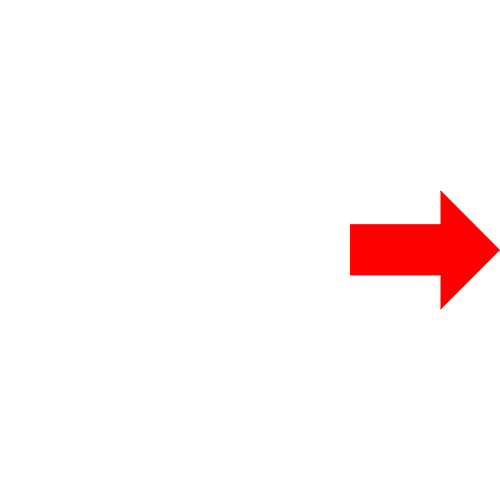
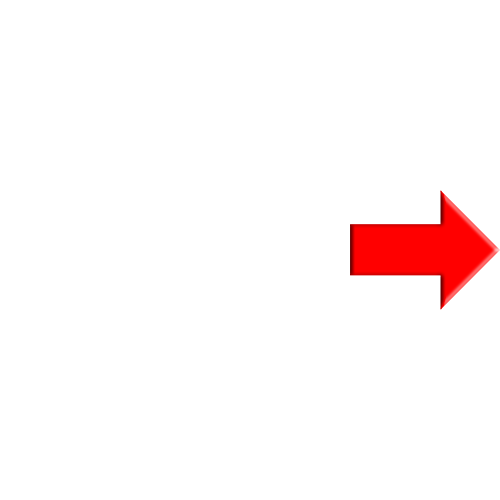
Improvement of the arrow. Add a star highlight image, an image for the pointer.

Changed region(s): [[0.69, 0.45, 0.93, 0.63], [0.87, 0.39, 1.0, 0.54], [0.93, 0.54, 0.96, 0.57]]

diff --git a/projetp1/src/com/github/projetp1/SkyMap.java b/projetp1/src/com/github/projetp1/SkyMap.java
@@ -21,8 +21,6 @@ import java.awt.event.MouseListener;
 import java.util.ArrayList;
 import java.util.Calendar;
 
-import com.sun.org.apache.bcel.internal.generic.LXOR;
-
 @SuppressWarnings("serial")
 public class SkyMap extends Container implements MouseListener
 {
@@ -30,6 +28,7 @@ public class SkyMap extends Container implements MouseListener
 	private double dXOrigin = 0;
 	private double dYOrigin = 0;
 	private ArrayList<CelestialObject> celestialObjects;
+	private DataBase db = null;
 	MainView mainView = null;
 
 	/**
@@ -51,8 +50,8 @@ public class SkyMap extends Container implements MouseListener
 		this.setBackground(l_BackgroundColor);
 		try
 		{
-			DataBase db = new DataBase(_sDataBase, _sDelimiter);
-			celestialObjects = db.starsForCoordinates(Calendar.getInstance(), 47.039448, 6.799734);
+			db = new DataBase(_sDataBase, _sDelimiter);
+			celestialObjects = db.starsForCoordinates(Calendar.getInstance(), 46.99943, 6.93852);
 		}
 		catch (Exception ex)
 		{
@@ -62,13 +61,12 @@ public class SkyMap extends Container implements MouseListener
 
 	public void mousePressed(MouseEvent e)
 	{
-
 		int l_scale = (int) (this.getHeight() / 2);
 		int l_xCenter = this.getWidth() / 2 - (int) (dXOrigin * l_scale * zoom);
 		int l_yCenter = this.getHeight() / 2 + (int) (dYOrigin * l_scale * zoom);
-		double l_dLastDelta = 10;
+		double l_dLastDelta = 10; //big value for be sure that will be changed
 		double l_dXPressed = (double) (e.getX() - l_xCenter) / zoom / l_scale;
-		double l_dYPressed = (double) (e.getY() - l_yCenter) / zoom / l_scale * -1;
+		double l_dYPressed = (double) ((e.getY() - l_yCenter) / zoom / l_scale) * -1;
 		CelestialObject l_nearestCelestialObject = null;
 
 		for (CelestialObject celestialObject : celestialObjects)
@@ -83,6 +81,7 @@ public class SkyMap extends Container implements MouseListener
 				l_nearestCelestialObject = celestialObject;
 			}
 		}
+		
 		mainView.updateInfo(l_nearestCelestialObject);
 	}
 
@@ -106,13 +105,11 @@ public class SkyMap extends Container implements MouseListener
 			int l_x, l_y;
 			int l_d = getSizeForMagnitude(celestialObject.getMag());
 			Color l_color = getColorForColorIndex(celestialObject.getColorIndex(), 255);
-			l_x = l_xCenter + (int) (celestialObject.getXReal() * zoom * l_scale) / 2;
-			l_y = l_yCenter - (int) (celestialObject.getYReal() * zoom * l_scale) / 2;
+			l_x = l_xCenter + (int) (celestialObject.getXReal() * zoom * l_scale);
+			l_y = l_yCenter - (int) (celestialObject.getYReal() * zoom * l_scale);
 			g.setColor(l_color);
 			String l_name = celestialObject.getProperName();
-
-			if (l_name != null)
-				g.drawString(l_name, l_x, l_y - 10);
+			
 			if (celestialObject.getMag() < -20)
 			{
 				Image l_imgSun = getToolkit().getImage("res/sun.png");
@@ -132,65 +129,89 @@ public class SkyMap extends Container implements MouseListener
 				g.fillOval(l_x - l_d / 2, l_y - l_d / 2, l_d, l_d);
 			}
 
+
+			if (l_name != null)
+				g.drawString(l_name, l_x, l_y - 10);
 			sun = celestialObject;
 		}
 
-		g.setColor(Color.red);
-		g.fillOval(this.getWidth() / 2 - 15, this.getHeight() / 2 - 15, 30, 30);
-		
-		Image l_imgArrow = getToolkit().getImage("res/arrow.png");
-		
-		double l_dangle = -getArrowAngle(sun);
-		Graphics2D g2 = (Graphics2D) g;
-		g2.rotate(l_dangle, this.getWidth() / 2,this.getHeight() / 2);
-		/*g2.drawImage(
-				l_imgArrow, 
-				(int)(this.getWidth() / 2 + Math.cos(l_dangle)*200 + Math.sin(l_dangle) * (l_imgArrow.getHeight(null) / 2)),
-				(int)(this.getHeight() / 2 - Math.sin(l_dangle)*200 - Math.cos(l_dangle) * (l_imgArrow.getHeight(null) / 2)), 
-				null);*/
-		g2.drawImage(
-				l_imgArrow, 
-				(int)(this.getWidth() / 2 - l_imgArrow.getWidth(null) / 2),
-				(int)(this.getHeight() / 2 - l_imgArrow.getHeight(null) / 2), 
+		Image l_imgCenter = getToolkit().getImage("res/center.png");
+		g.drawImage(
+				l_imgCenter, 
+				(int)(this.getWidth() / 2 - l_imgCenter.getWidth(null) / 2),
+				(int)(this.getHeight() / 2 - l_imgCenter.getHeight(null) / 2), 
 				null);
+		
+		
+		
+		int l_xStarPointed = l_xCenter + (int) (sun.getXReal() * zoom * l_scale);
+		int l_yStarPointed =  l_yCenter - (int) (sun.getYReal() * zoom * l_scale);
+		
+		if(l_xStarPointed > 0 && l_xStarPointed < this.getWidth() && l_yStarPointed > 0 && l_yStarPointed < this.getHeight())
+		{
+			Image l_imgStarHighlight = getToolkit().getImage("res/star_highlight.png");
+			g.drawImage(
+					l_imgStarHighlight, 
+					l_xCenter + (int) (sun.getXReal() * zoom * l_scale) - l_imgStarHighlight.getWidth(null) / 2,
+					 l_yCenter - (int) (sun.getYReal() * zoom * l_scale)- l_imgStarHighlight.getHeight(null) / 2, 
+					null);
+		}
+		else
+		{
+			Image l_imgArrow = getToolkit().getImage("res/arrow.png");
+			double l_dAngle = -getArrowAngle(sun);
+			Graphics2D g2 = (Graphics2D) g;
+			g2.rotate(l_dAngle, this.getWidth() / 2,this.getHeight() / 2);
+			g2.drawImage(
+					l_imgArrow, 
+					(int)(this.getWidth() / 2 - l_imgArrow.getWidth(null) / 2),
+					(int)(this.getHeight() / 2 - l_imgArrow.getHeight(null) / 2), 
+					null);
+		}
+		
 	}
-
+	
+	/**
+	 * Returns the angle between the PIC and the star selected.
+	 * And send the code of the arrow who's displayed on the PIC. 
+	 * 0 is for the arrow that point the top and each incrementation correspond to 45° in trigonometric sense.
+	 * 
+	 * @param _object
+	 *            : The star object
+	 * @return The angle
+	 */
 	private double getArrowAngle(CelestialObject _object)
 	{
-		/**
-		 * System.out.print("orign x : " + dXOrigin + ", obj x : " + _object.getXReal());
-		 * System.out.print("orign y : " + dYOrigin + ", obj y : " + _object.getYReal());
-		 */
-
-		double l_dangle = Math.atan((_object.getYReal() - dYOrigin) / (_object.getXReal() - dXOrigin));
+		double l_dAngle = Math.atan((_object.getYReal() - dYOrigin) / (_object.getXReal() - dXOrigin));
 		
 		if (dXOrigin > _object.getXReal()) 
-			l_dangle += Math.PI;
+			l_dAngle += Math.PI;
 
+		//mainView.getPic().sendArrow;
 		
 		//System.out.print("angle : " + Math.toDegrees(l_dangle) + "\r\n");
 		
 		/*if(mainView.getPic().getMode() == Pic.PicMode.GUIDING)
 		{
-			if(l_dangle > 67.5 && l_dangle <= 112.5)
-				mainView.getPic().sendArrow;
-			else if(l_dangle > 112.5 && l_dangle <= 157.5)
-				1;
-			else if(l_dangle > 157.5 && l_dangle <= 202.5)
-				2;
-			else if(l_dangle > 202.5 && l_dangle <= 247.5)
-				3;
-			else if(l_dangle > 247.5 && l_dangle <= 292.5)
-				4;
-			else if(l_dangle > 292.5 && l_dangle <= 337.5)
-				5;
-			else if(l_dangle > 337.5 && l_dangle <= 22.5)
-				6;
+			if(l_dAngle > 67.5 && l_dAngle <= 112.5)
+				return 0;
+			else if(l_dAngle > 112.5 && l_dAngle <= 157.5)
+				return 1;
+			else if(l_dAngle > 157.5 && l_dAngle <= 202.5)
+				return 2;
+			else if(l_dAngle > 202.5 && l_dAngle <= 247.5)
+				return 3;
+			else if(l_dAngle > 247.5 && l_dAngle <= 292.5)
+				return 4;
+			else if(l_dAngle > 292.5 && l_dAngle <= 337.5)
+				return 5;
+			else if(l_dAngle > 337.5 && l_dAngle <= 22.5)
+				return 6;
 			else
-				7;
-		}
-		*/
-		return l_dangle;
+				return 7;
+		}*/
+		
+		return l_dAngle;
 	}
 
 	/**
@@ -203,25 +224,25 @@ public class SkyMap extends Container implements MouseListener
 	 */
 	private int getSizeForMagnitude(double _mag)
 	{
-		int size = 0;
+		int l_size = 0;
 		if (_mag >= 6.0)
-			size = 0;
+			l_size = 0;
 		else if (_mag >= 5.3)
-			size = 1;
+			l_size = 1;
 		else if (_mag >= 4.0)
-			size = 2;
+			l_size = 2;
 		else if (_mag >= 2.7)
-			size = 3;
+			l_size = 3;
 		else if (_mag >= 1.4)
-			size = 4;
+			l_size = 4;
 		else if (_mag >= 0.1)
-			size = 5;
+			l_size = 5;
 		else if (_mag >= -1.2)
-			size = 6;
+			l_size = 6;
 		else
-			size = 7;
+			l_size = 7;
 
-		return size;
+		return l_size;
 	}
 
 	/**
@@ -266,19 +287,11 @@ public class SkyMap extends Container implements MouseListener
 		this.dYOrigin = _yOrigin;
 	}
 
-	public void mouseClicked(MouseEvent _arg0)
-	{
-	}
+	public void mouseClicked(MouseEvent _arg0) {}
 
-	public void mouseEntered(MouseEvent _arg0)
-	{
-	}
+	public void mouseEntered(MouseEvent _arg0) {}
 
-	public void mouseExited(MouseEvent _arg0)
-	{
-	}
+	public void mouseExited(MouseEvent _arg0) {}
 
-	public void mouseReleased(MouseEvent _arg0)
-	{
-	}
+	public void mouseReleased(MouseEvent _arg0) {}
 }

diff --git a/projetp1/src/com/github/projetp1/MainView.java b/projetp1/src/com/github/projetp1/MainView.java
@@ -208,6 +208,8 @@ public class MainView extends JFrame implements KeyListener {
         		zoom--;
         }
 
+        zoomBarPanel.zoomSlider.setValue(zoom);
+        
         skymap.setZoom(zoom);
         skymap.setXOrigin(xOrigin);
         skymap.setYOrigin(yOrigin);
